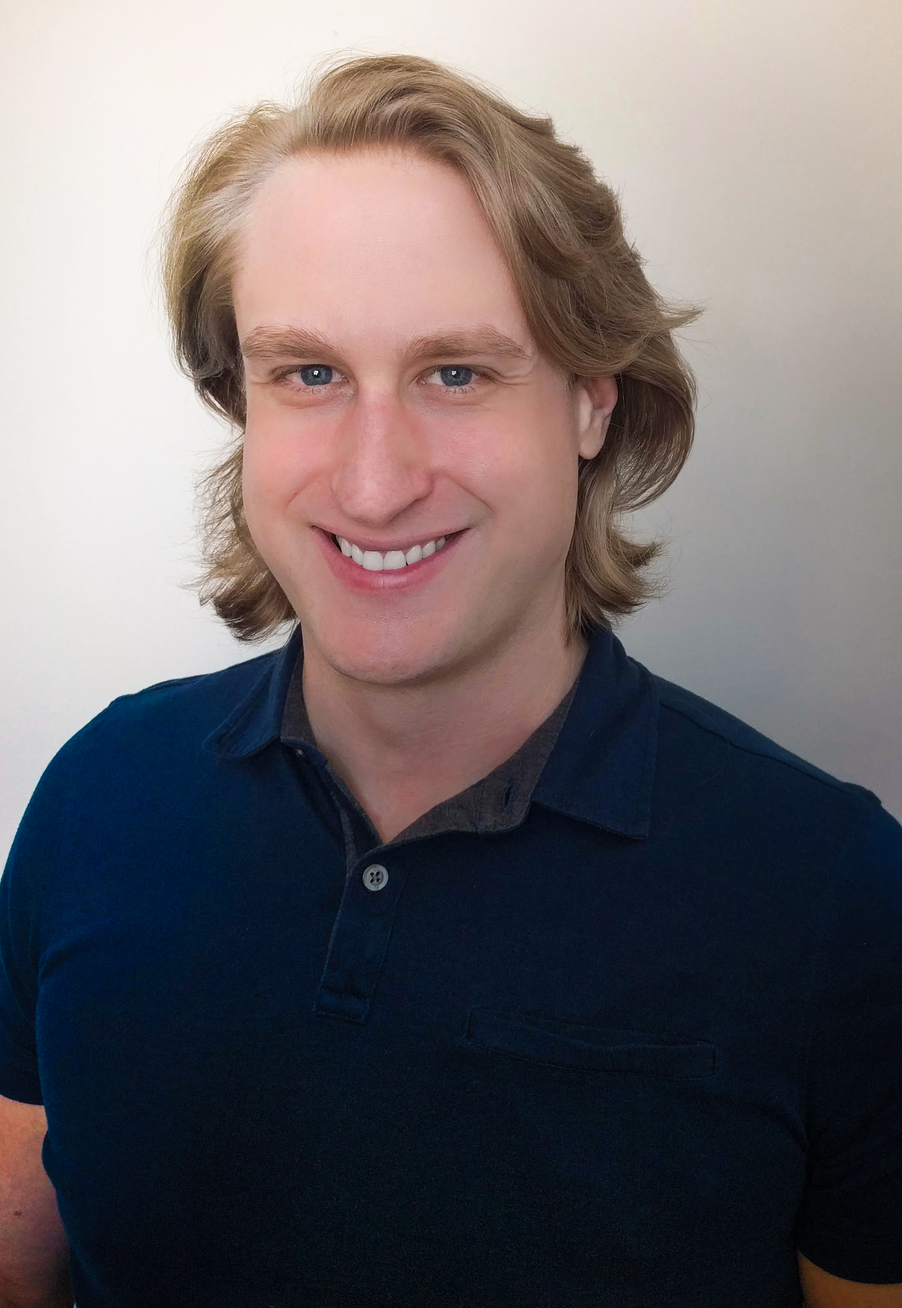
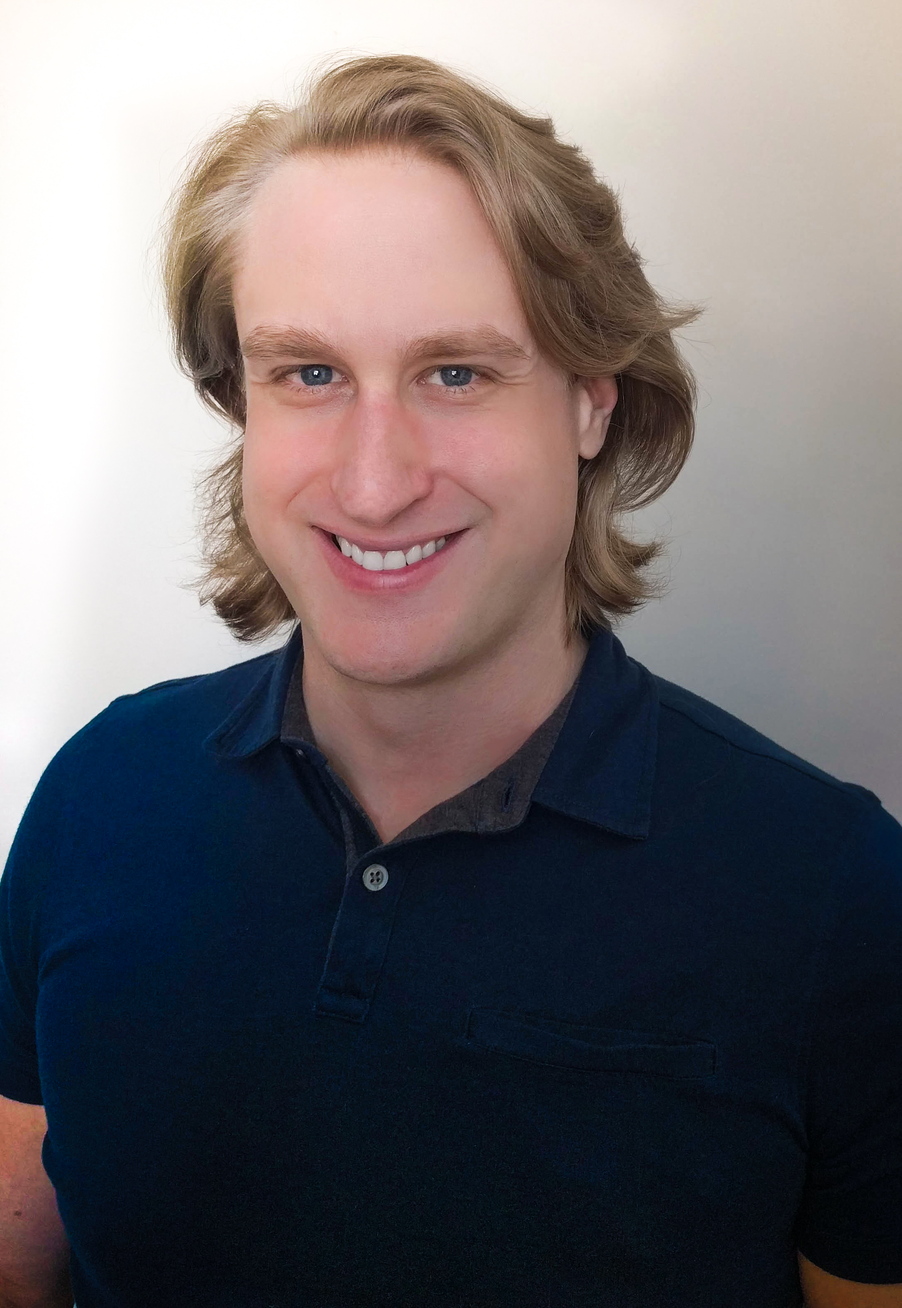
Edit profile section display and CSS

Changed region(s): [[0.0, 0.4041, 0.0616, 0.6527], [0.0, 0.0, 0.0616, 0.0622]]

diff --git a/app/assets/stylesheets/pages.scss b/app/assets/stylesheets/pages.scss
@@ -138,7 +138,7 @@
 							grid-row: 4;
 
 							width: 63vw;
-							background-color: $blue;
+							background-color: $faint-blue;
 							border-top: 1px solid $mid-blue;
 							border-bottom: 1px solid $mid-blue;
 
@@ -196,14 +196,30 @@
 				border-bottom: 1px solid $off-black-t;
 
 				display: grid;
-				grid-template-columns: 35vw 5vw 20vw;
-				grid-template-rows: 2.5vh 55vh auto;
+				grid-template-columns: 30vw 5vw 25vw;
+				grid-template-rows: auto;
 
 				div {
-					grid-template-columns: 12.5vw 30vw;
+					grid-template-columns: 8vw 13vw 30vw 8vw;
 					grid-template-rows: auto;
 					grid-column-gap: 2vw;
 					grid-row-gap: 2vh;
+				}
+
+				div:nth-of-type(even) {
+					background-color: $faint-blue;
+					border-top: 1px solid $mid-blue;
+					border-bottom: 1px solid $mid-blue;
+				}
+
+				.hello {
+					grid-column: 1/3;
+					grid-row: 1;
+
+					justify-self: center;
+					margin-top: 13vh;
+
+					border-bottom: 2px solid $mid-blue;
 				}
 
 				h2 {
@@ -216,14 +232,14 @@
 
 					height: 30vh;
 					align-self: center;
-					margin: -15vh 0 0 5vw;
+					margin-left: 5vw;
 
 					h1 {
 						text-align: center;
 					}
 
 					p {
-						font-size: calc(16px + .75vw);
+						font-size: calc(16px + 1vw);
 					}
 				}
 
@@ -231,32 +247,30 @@
 					grid-column: 2/4;
 					grid-row: 1/3;
 
-					width: 25vw;
+					width: 27.5vw;
 					max-width: 350px;
-
-					margin-top: -2.5vh;
+					margin: 5vh 0;
 				}
 
 				.about-me {
-					grid-column: 1/4;
+					grid-column: 1/5;
 					grid-row: 3;
-					background-color: $off-white-t;
 
 					justify-self: center;
 
 					display: grid;
 
 					h2 {
-						grid-column: 1;
+						grid-column: 2;
 					}
 
 					p {
-						grid-column: 2;
+						grid-column: 3;
 					}
 				}
 
 				.skills-list {
-					grid-column: 1/4;
+					grid-column: 1/5;
 					grid-row: 4;
 
 					justify-self: center;
@@ -264,11 +278,11 @@
 					display: grid;
 
 					h2 {
-						grid-column: 1;
+						grid-column: 2;
 					}
 
 					ul {
-						grid-column: 2;
+						grid-column: 3;
 						column-count: 3;
 
 						li {
@@ -279,14 +293,14 @@
 				}
 
 				.contact {
-					grid-column: 1/4;
+					grid-column: 1/5;
 					grid-row: 6;
 					justify-self: center;
 
 					display: grid;
 
 					h2 {
-						grid-column: 1;
+						grid-column: 2;
 						padding-top: 0;
 						align-self: center;
 					}

diff --git a/app/assets/stylesheets/_variables.scss b/app/assets/stylesheets/_variables.scss
@@ -4,7 +4,7 @@ $dark-grey: #353535;
 $dark-green: #37392E;
 $mid-green: #104F55;
 $light-green: #A4C3B2;
-$blue: #e2ebfb;
+$faint-blue: #e2ebfb;
 $mid-blue: #033860;
 $mid-blue-t: rgba(#033860, 0.5);
 $light-blue: rgba(#6a9abe, 1);
@@ -14,4 +14,4 @@ $off-white-t: rgba(#f9f9ff, 0.50);
 $off-black: rgba(#252422, .75);
 $off-black-t: rgba(#252422, 0.25);
 
-$pic-background: #F2F0F1;
+$pic-background: #fffefc;
